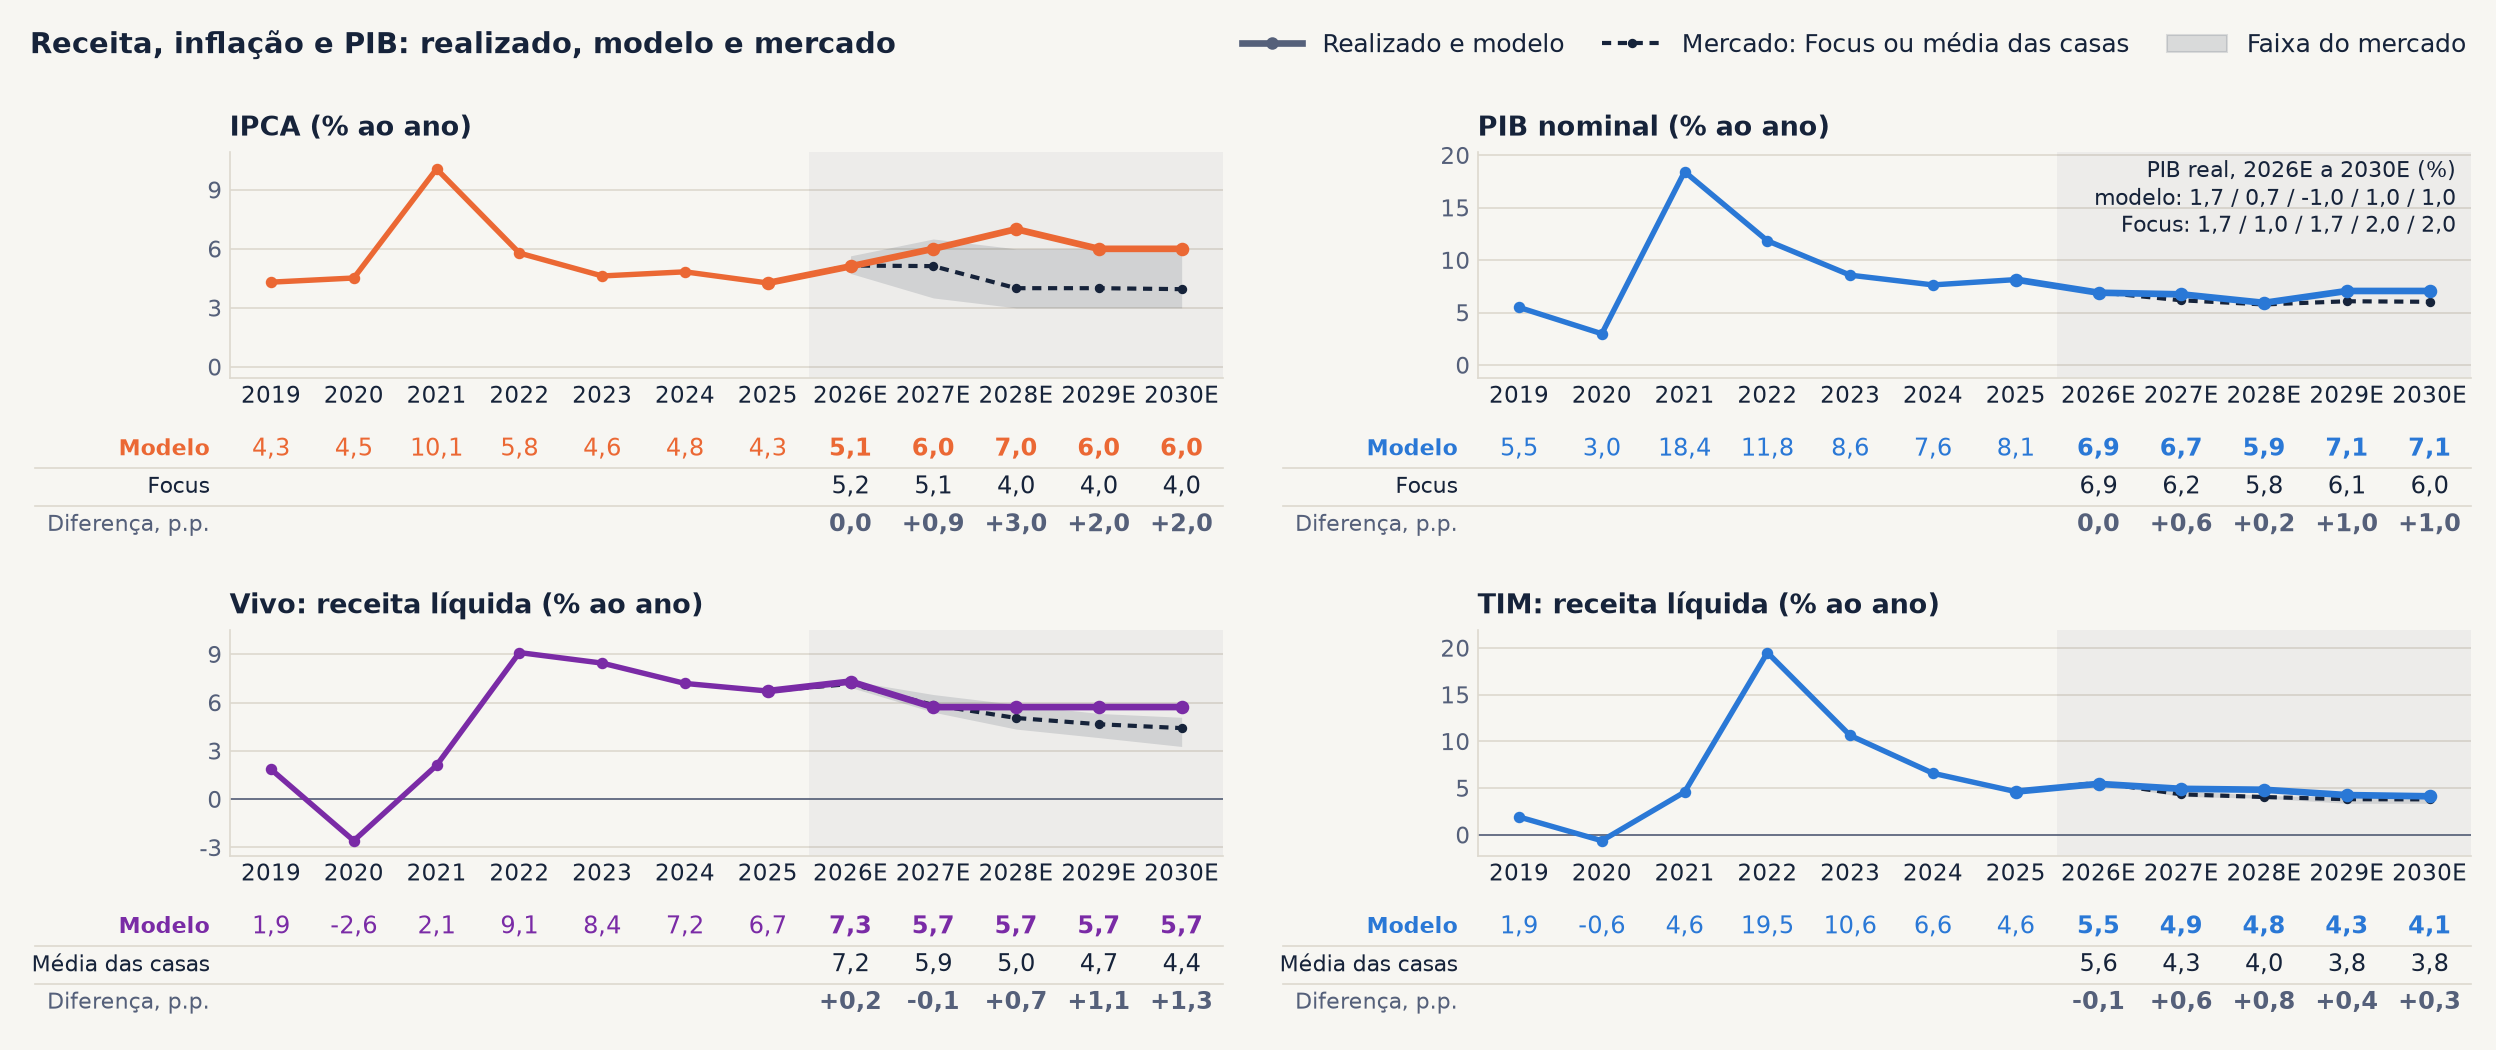
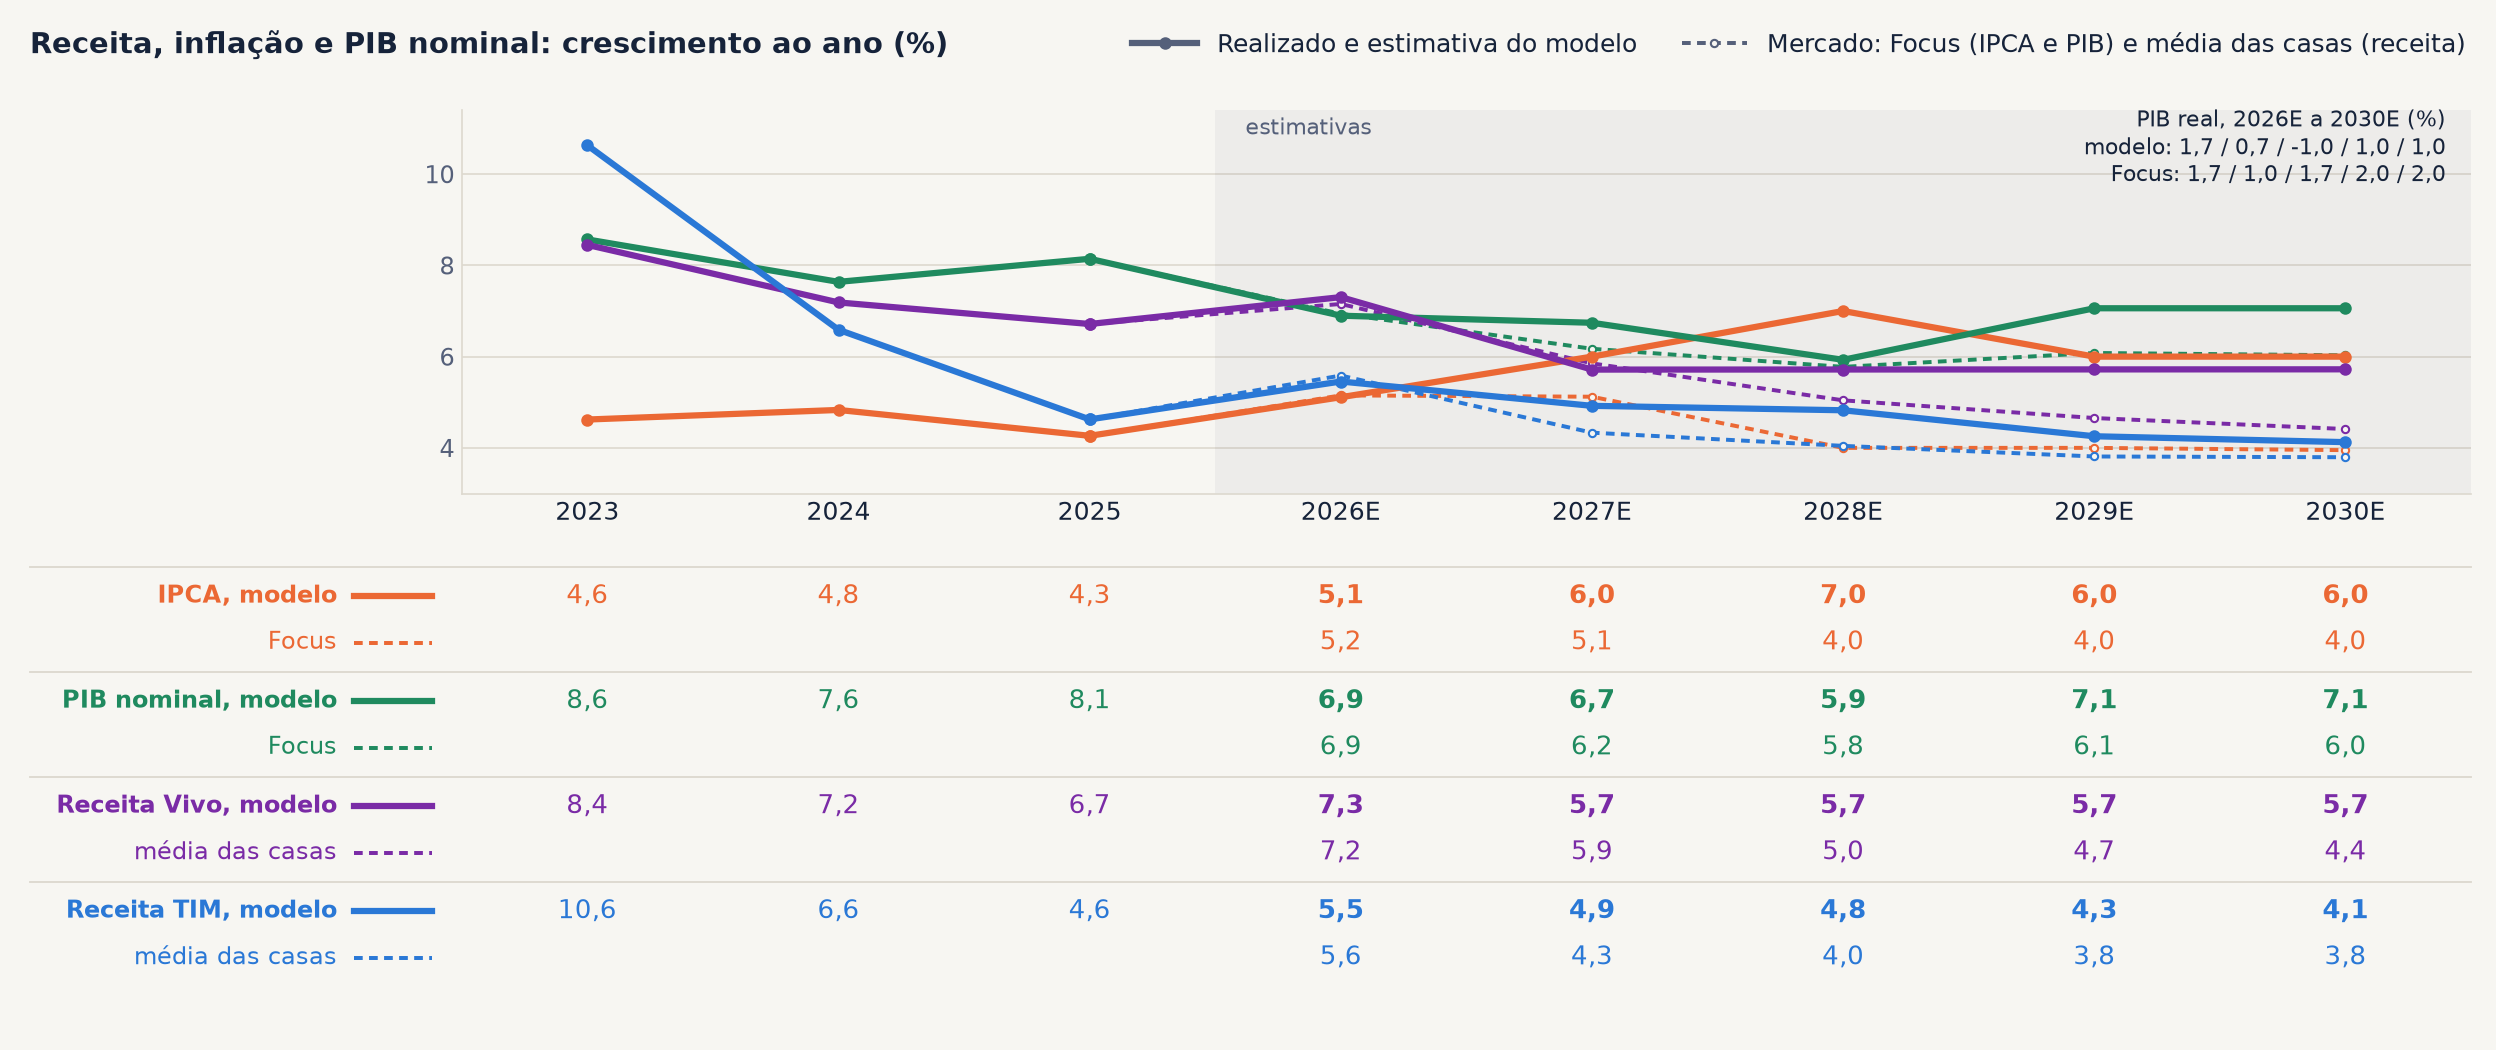
v3.5 · 24/11/2026 20:21 · slide 5 em um gráfico só, desde 2023
IPCA, PIB nominal e receita de Vivo e TIM no mesmo gráfico, modelo
contra mercado, com a tabela dos números embaixo.

diff --git a/index.html b/index.html
@@ -40,7 +40,7 @@ h1, h2, h3 { font-family:'Space Grotesk', Arial, sans-serif; }
 <div id="palco">
 <section id="capa" class="capa" data-transition="fade">
 <div>
-<p class="chip">v3.4 · 24/11/2026 20:16</p>
+<p class="chip">v3.5 · 24/11/2026 20:21</p>
 </div>
 <div>
 <h1>Telecom Brasil: Vivo e TIM</h1>
@@ -72,8 +72,8 @@ h1, h2, h3 { font-family:'Space Grotesk', Arial, sans-serif; }
 <section id="rol" data-transition="fade">
 <p class="olho">1 · RECEITA, INFLAÇÃO E PIB: MODELO CONTRA MERCADO</p>
 <h2 class="titulo">Modelo com IPCA de 6% a 7% contra 4% do Focus: a receita fica até 1,3 ponto acima das casas no nominal, mas abaixo da inflação do próprio modelo</h2>
-<img class="graf" src="img/v5_receita_macro.png" alt="Quatro painéis com o realizado de 2019 a 2025 e as estimativas de 2026 a 2030: IPCA, PIB nominal, receita líquida da Vivo e receita líquida da TIM. Em cada um, a linha do modelo contra a do mercado (Focus no IPCA e no PIB, média das casas na receita), a faixa do mercado do mínimo ao máximo e a tabela dos números com a diferença em pontos percentuais">
-<p class="fonte">Fonte: RI e modelos de Vivo e TIM de 24/11/2026; Banco Central (IPCA, PIB e Focus de 19/11/2026, mediana e faixa do mínimo ao máximo). PIB nominal = PIB real vezes IPCA. Casas: Itaú BBA, BBI, BTG, Santander e, na Vivo, UBS.</p>
+<img class="graf" src="img/v5_receita_macro.png" alt="Um gráfico com o crescimento ao ano de IPCA, PIB nominal, receita líquida da Vivo e receita líquida da TIM, realizado de 2023 a 2025 e estimado de 2026 a 2030: linha cheia para o modelo e tracejada para o mercado (Focus no IPCA e no PIB, média das casas na receita), com a tabela dos números embaixo">
+<p class="fonte">Fonte: RI e modelos de Vivo e TIM de 24/11/2026; Banco Central (IPCA, PIB e medianas do Focus de 19/11/2026). PIB nominal = PIB real vezes IPCA. Casas: Itaú BBA, BBI, BTG, Santander e, na Vivo, UBS.</p>
 <aside>Premissas do modelo. IPCA: 5,1% em 2026E, 6,0% em 2027E, 7,0% em 2028E e 6,0% em 2029E e 2030E (DRE do modelo). PIB real: 1,7% em 2026E, 0,7% em 2027E, -1,0% em 2028E e 1,0% de 2029E em diante (premissa informada em 24/11/2026; ainda não está nas planilhas). PIB nominal resultante: 6,9%, 6,7%, 5,9%, 7,1% e 7,1%. Mercado. Focus de 19/11/2026, medianas: IPCA de 5,2%, 5,1%, 4,0%, 4,0% e 4,0%, com respostas entre 3,0% e 6,0% de 2028 em diante; PIB real de 1,7%, 1,0%, 1,7%, 2,0% e 2,0%; PIB nominal de 6,9%, 6,2%, 5,8%, 6,1% e 6,0%, calculado com o IPCA como deflator. O IPCA de 7,0% do modelo em 2028E fica acima da resposta mais alta do Focus. Receita líquida. Vivo no modelo: 7,3% em 2026E e 5,7% de 2027E a 2030E, contra a média das casas de 7,2%, 5,9%, 5,0%, 4,7% e 4,4% (faixa de 3,3% a 5,1% em 2030E). TIM no modelo: 5,5%, 4,9%, 4,8%, 4,3% e 4,1%, contra 5,6%, 4,3%, 4,0%, 3,8% e 3,8% (faixa de 3,4% a 4,0% em 2030E). Em termos reais, com a inflação de cada um: a receita da Vivo no modelo cai 0,3% em 2027E, 1,2% em 2028E e 0,3% em 2029E e 2030E, e nas casas cresce 0,7%, 1,0%, 0,6% e 0,4%; a da TIM no modelo cai 1,0%, 2,0%, 1,6% e 1,8%, e nas casas fica entre -0,7% e zero. Contra o PIB nominal, a receita cresce menos nos dois: Vivo 1,3 ponto abaixo em 2030E no modelo e 1,6 no mercado; TIM 2,9 e 2,2 pontos abaixo. Realizado: IPCA de dezembro contra dezembro e PIB nominal em 12 meses (séries 433 e 4382 do Banco Central); o slide 2 usa o IPCA pela média do ano. O pico da receita em 2022 e 2023 inclui os clientes da Oi e o corte do ICMS.</aside>
 </section>
 <section id="margem" data-transition="fade">

diff --git a/README.md b/README.md
@@ -1,3 +1,3 @@
 # Telecom Brasil: Vivo e TIM
 
-Deck de telecom (v3.4 · 24/11/2026 20:16): o setor contra a inflação e o PIB, receita, margem, EBITDA, capex e arrendamento, lucro, payout, Fistel e valuation de Vivo e TIM.
+Deck de telecom (v3.5 · 24/11/2026 20:21): o setor contra a inflação e o PIB, receita, margem, EBITDA, capex e arrendamento, lucro, payout, Fistel e valuation de Vivo e TIM.
